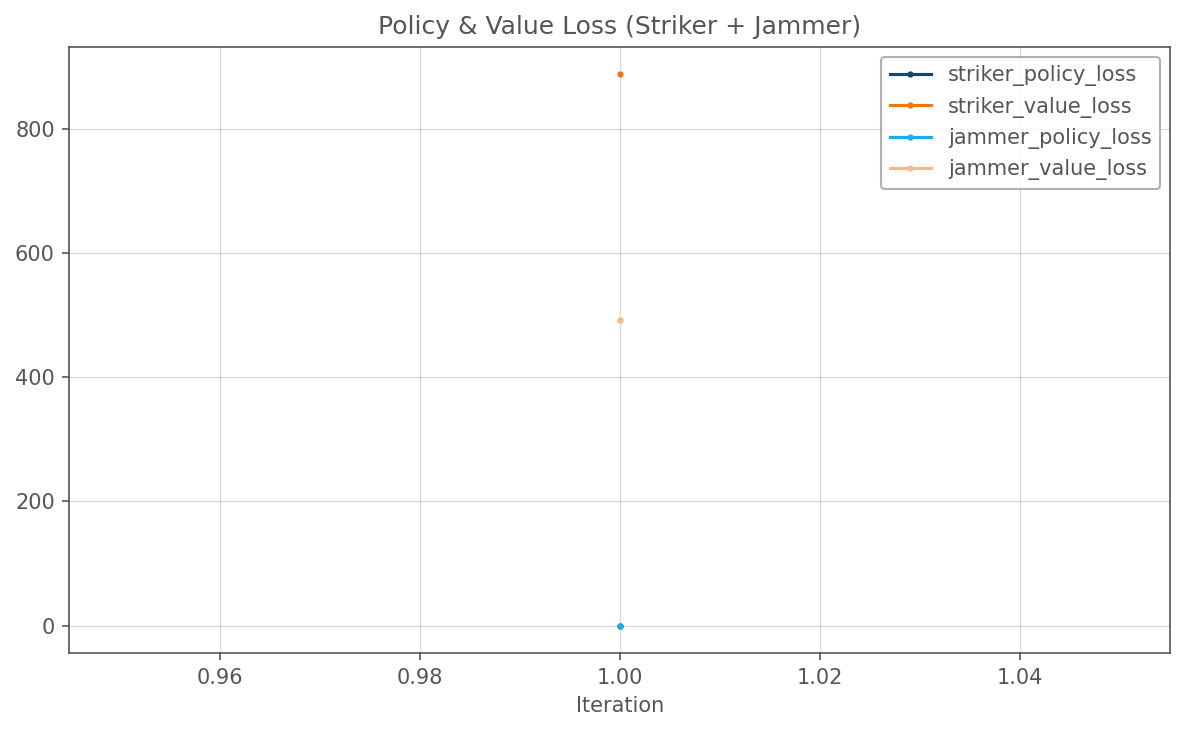
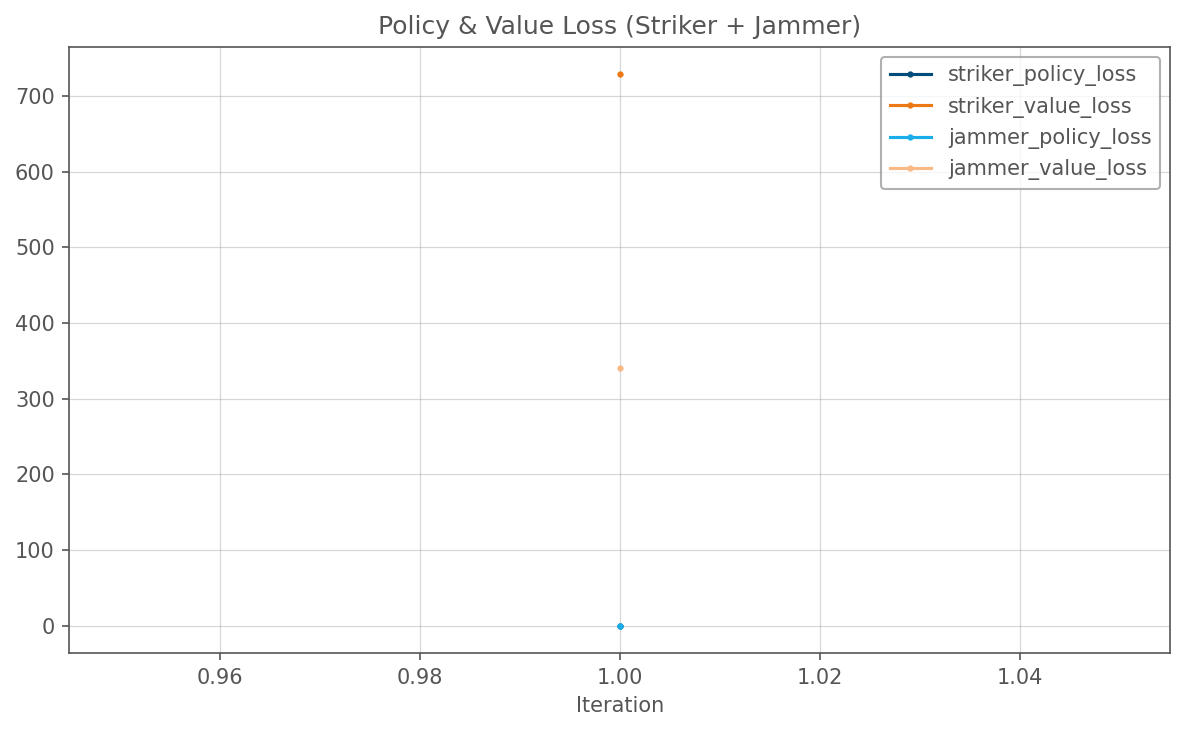
final parameters radar fount and impleemnted

diff --git a/0_TA_HF_FOFE-MAPPO/config.py b/0_TA_HF_FOFE-MAPPO/config.py
@@ -409,7 +409,7 @@ class HFRadarConfig:
     """
     # Radar SNR parameters
     radar_tx_power: float = 100e3                 # P_t [W]
-    radar_tx_gain: float = 35.0                 # G_t [dB]
+    radar_tx_gain: float = 37.0                 # G_t [dB]
     radar_rx_gain: Optional[float] = None       # G_r [dB], defaults to G_t
     wavelength: float = 0.5                    # lambda [m]
     target_rcs: float = 1.0                     # sigma [m^2]